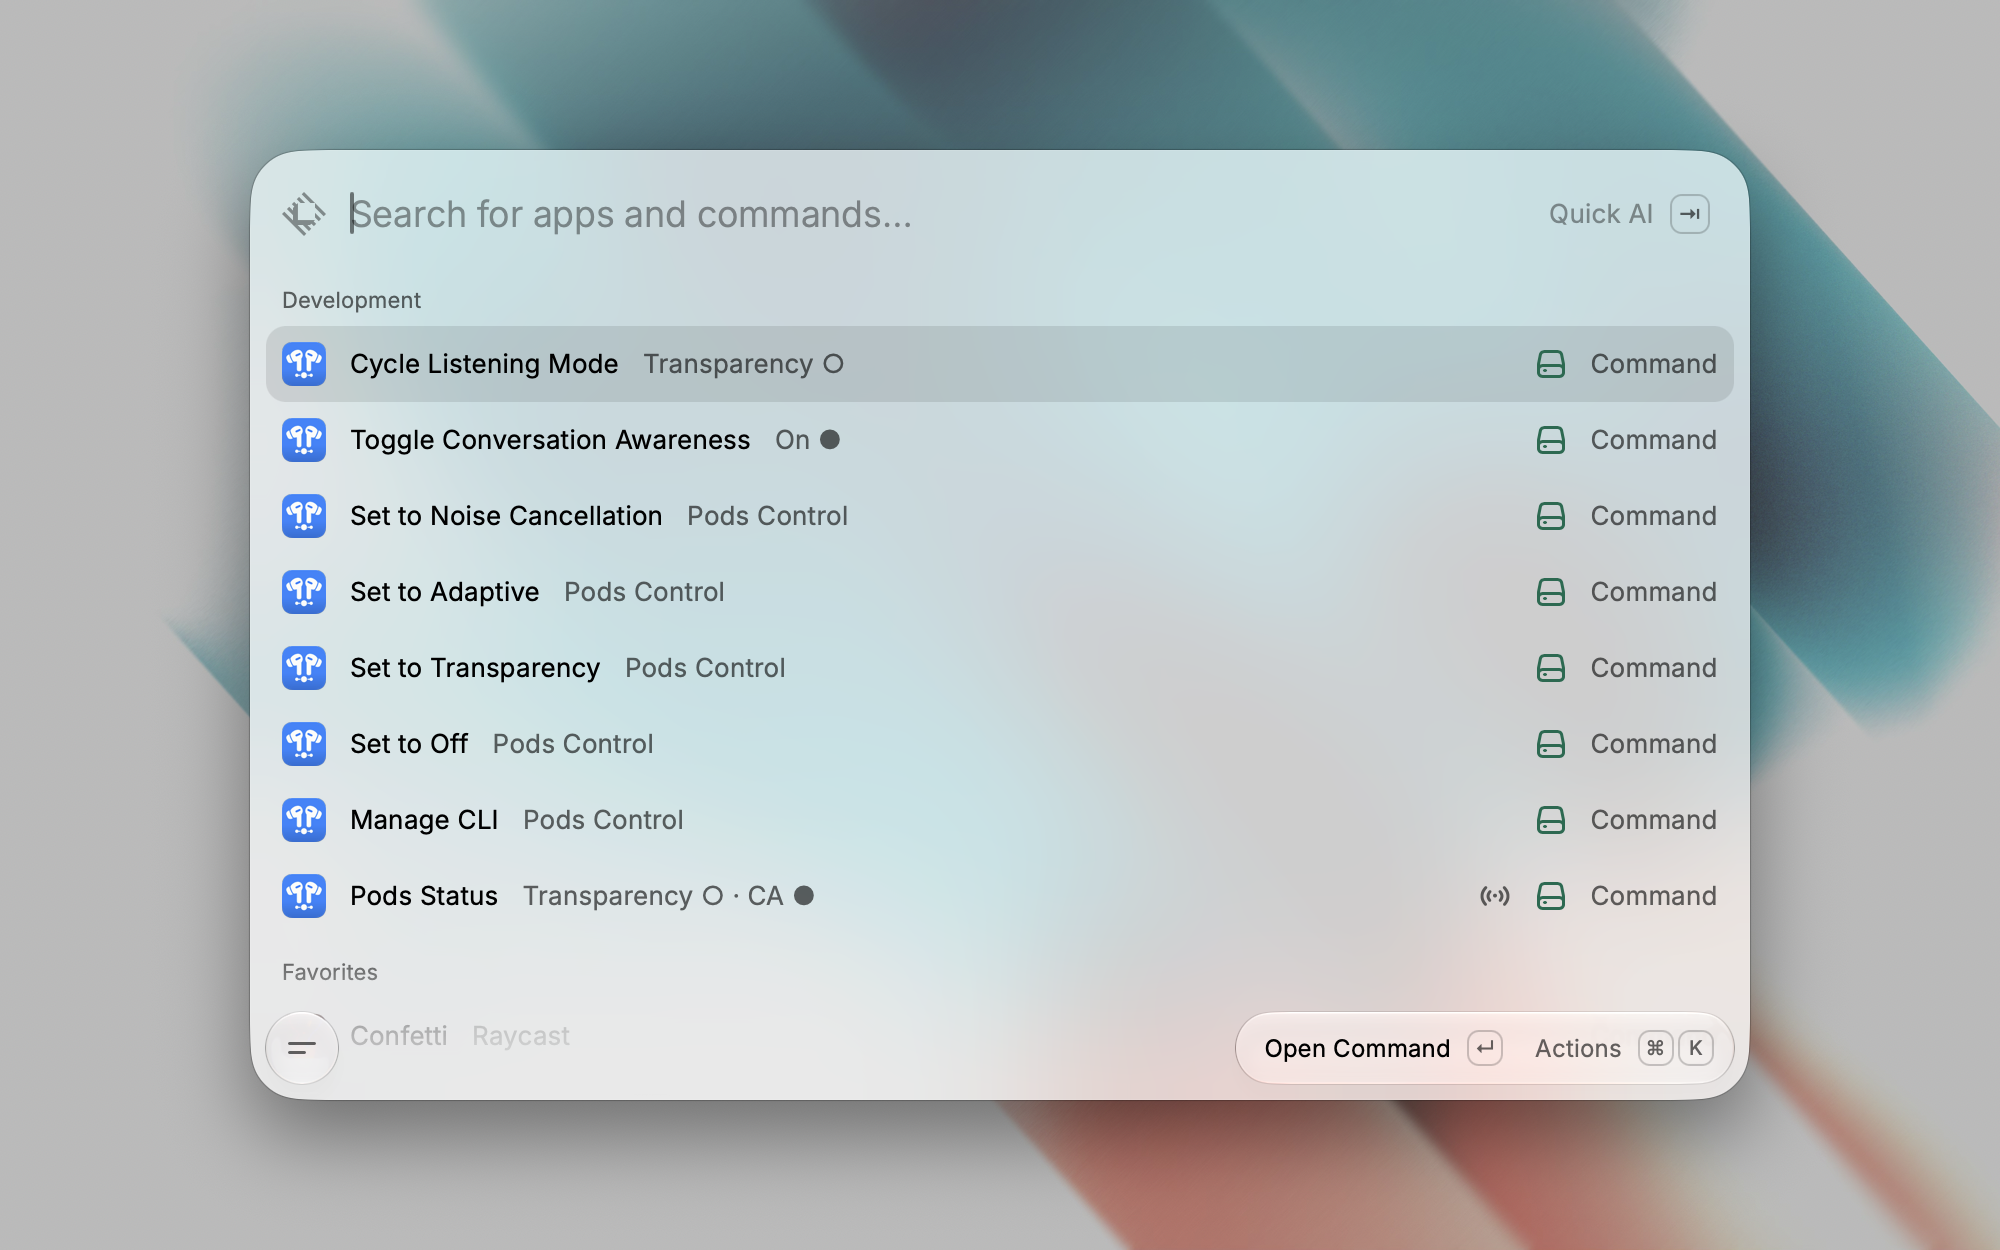
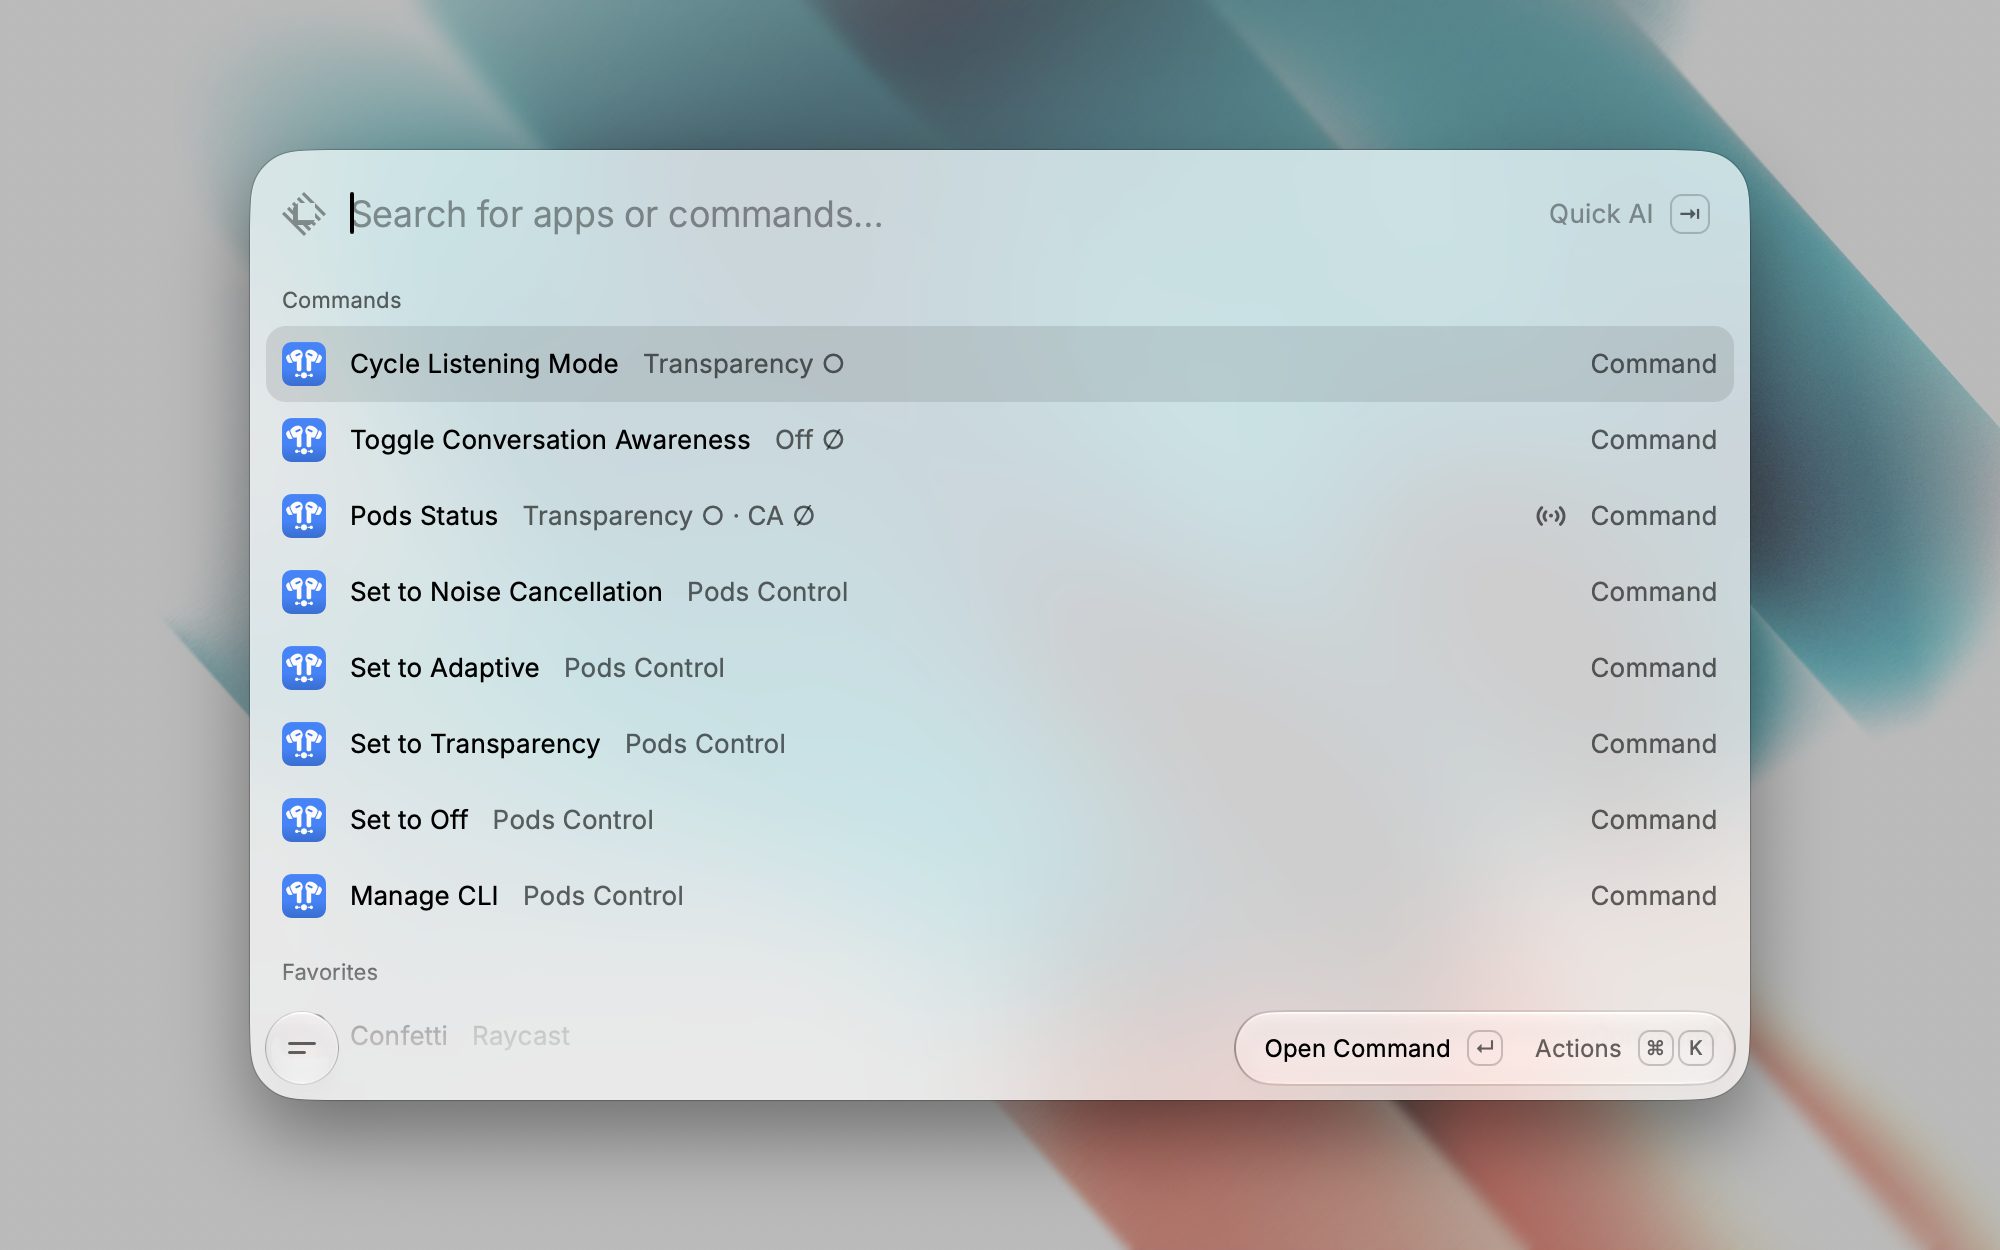
docs: rewrite README and refresh the store screenshot (#20)
## Summary

- Restructure the README for Store readers: Requirements, Get started
via Manage CLI, Commands, Preferences, Troubleshooting, Report a bug,
Privacy.
- Document Adaptive and Off as optional commands, which subtitles show
live state, and how Off availability works on the device.
- Refresh `metadata/pods-control-1.png` for the Store gallery.

## Testing

- README prose and link pass: Not run
- `scripts/check_metadata_images.py` on `metadata/pods-control-1.png`:
Not run
- `npm test` / `npm run lint`: Not run (docs and screenshot only)

diff --git a/README.md b/README.md
@@ -1,70 +1,86 @@
 # Pods Control
 
-Control AirPods and Beats listening modes (Off, Transparency, Adaptive, Noise Cancellation) and Conversation Awareness from Raycast, using a local CLI. Command subtitles show the current state as confirmed by macOS.
+Control AirPods and Beats listening modes (Off, Transparency, Adaptive, Noise Cancellation) and Conversation Awareness from Raycast.
 
-It runs on macOS only. Beats headphones that expose these controls in macOS may also work; see the CLI's [compatibility matrix](https://github.com/raulgg/pods-control/blob/HEAD/docs/compatibility.md) for tested models.
+## Requirements
 
-## Setup
+- macOS. The extension does not run on other platforms.
+- AirPods, or Beats headphones that expose these controls in macOS. See the [compatibility matrix](https://github.com/raulgg/pods-control/blob/HEAD/docs/compatibility.md) for tested models.
+- The [pods-control CLI](https://github.com/raulgg/pods-control), version 0.5.0 or later. The extension uses it to talk to your device.
 
-1. Install the CLI with [Homebrew](https://brew.sh). It builds from source, so this can take a few minutes. If Homebrew reports that Apple's Command Line Tools are missing, run `xcode-select --install` first.
+## Get started
 
-   ```bash
-   brew install raulgg/tap/pods-control
-   ```
-
-   You can also skip this step: run any Pods Control command and accept **Install with Homebrew** when prompted.
-
-2. Connect your AirPods or Beats and select them as your Mac's audio output.
-3. Run a Pods Control command.
-
-The extension needs CLI 0.5.0 or later and looks for it in `/opt/homebrew/bin` and `/usr/local/bin`. **Manage CLI** shows the installed version and offers **Update with Homebrew** when a newer release is available.
-
-**Installing without Homebrew.** Follow the CLI's [installation instructions](https://github.com/raulgg/pods-control/blob/HEAD/README.md#install) and keep the complete installation together, including `avbypass.dylib`. If the binary is outside the standard locations, set its full path in the **CLI Path** preference.
+1. Connect your AirPods or Beats to your Mac.
+2. Run **Manage CLI** and follow its steps to install the CLI. It checks for Homebrew and Apple's developer tools first.
+3. In Raycast's extension settings, turn on the optional commands and enable the desired listening modes to use in **Cycle Listening Mode**.
+4. Assign hotkeys to the commands you use most, for example **Cycle Listening Mode**.
 
 ## Commands
 
-| Command                           | What it does                                                                                                                                    |
-| --------------------------------- | ----------------------------------------------------------------------------------------------------------------------------------------------- |
-| **Set to Noise Cancellation**     | Switch to Noise Cancellation.                                                                                                                   |
-| **Set to Transparency**           | Switch to Transparency.                                                                                                                         |
-| **Set to Adaptive**               | Switch to Adaptive. Disabled by default; requires a model that supports it.                                                                     |
-| **Set to Off**                    | Turn noise control off. Disabled by default; requires Off to be enabled in your AirPods settings.                                               |
-| **Cycle Listening Mode**          | Step through the modes selected in its preferences. Unsupported modes are skipped.                                                              |
-| **Toggle Conversation Awareness** | Turn Conversation Awareness on or off. Requires a model that supports it.                                                                       |
-| **Pods Status**                   | Read the current mode and Conversation Awareness state. Run it once to activate Background Refresh, which keeps subtitles current every minute. |
-| **Manage CLI**                    | Install, update, or repair the pods-control CLI. Each screen explains the next step and offers the matching action.                             |
+| Command                           | What it does                                                                                    |
+| --------------------------------- | ----------------------------------------------------------------------------------------------- |
+| **Set to Noise Cancellation**     | Switch to Noise Cancellation.                                                                   |
+| **Set to Transparency**           | Switch to Transparency.                                                                         |
+| **Set to Adaptive**               | Switch to Adaptive. Disabled by default.                                                        |
+| **Set to Off**                    | Turn noise control off. Disabled by default.                                                    |
+| **Cycle Listening Mode**          | Step through the modes you select in its preferences. Skips modes your device does not support. |
+| **Toggle Conversation Awareness** | Turn Conversation Awareness on or off. Requires a model that supports it.                       |
+| **Pods Status**                   | Show the current mode and Conversation Awareness state.                                         |
+| **Manage CLI**                    | Install, update, or repair the CLI. Each screen explains the next step and offers the action.   |
 
-Control commands show a success toast while Raycast is open and a HUD when it is closed, for example when triggered by a hotkey. Subtitles update after macOS confirms the change; if no AirPods or Beats are connected, **Pods Status** shows **Not connected**.
+Control commands show a success toast while Raycast is open and a HUD when it is closed, for example when you use a hotkey.
+
+### Turn on Set to Adaptive and Set to Off
+
+Both commands are disabled by default because not every device supports them. If yours does, enable the command in Raycast's extension settings.
+
+- **Set to Adaptive** needs a model that supports Adaptive.
+- **Set to Off** needs Off to be enabled in your device settings. macOS lets you exclude Off from noise control.
+
+### See the current state at a glance
+
+**Cycle Listening Mode**, **Toggle Conversation Awareness**, and **Pods Status** show the current state, as confirmed by macOS, in their subtitles. Run **Pods Status** once to turn on Background Refresh, which updates these subtitles every minute. They also update after macOS confirms a change you make. The other commands keep the subtitle "Pods Control".
 
 ## Preferences
 
-| Preference                 | Command              | Description                                                                                                           |
-| -------------------------- | -------------------- | --------------------------------------------------------------------------------------------------------------------- |
-| **CLI Path**               | Extension            | Full path to the `pods-control` binary. Leave empty for automatic detection. A set path overrides detection.          |
-| **Modes to Cycle Through** | Cycle Listening Mode | Checkboxes for Off, Transparency, Adaptive, and Noise Cancellation. Select at least two. Off is unchecked by default. |
+| Preference                 | Command              | Description                                                                                                                         |
+| -------------------------- | -------------------- | ----------------------------------------------------------------------------------------------------------------------------------- |
+| **CLI Path**               | Extension            | Full path to the `pods-control` binary. Leave it empty to detect the CLI automatically. A set path overrides detection.             |
+| **Modes to Cycle Through** | Cycle Listening Mode | Checkboxes for Off, Transparency, Adaptive, and Noise Cancellation. Select at least two. Off and Adaptive are unchecked by default. |
 
 ## Troubleshooting
 
 ### "CLI not found" after installing
 
-Open **Manage CLI**. It detects unlinked or incomplete Homebrew installs and an invalid **CLI Path**, and gives you the exact command or preference to fix. After following the steps, choose **Refresh** in that view and run your command again.
+Open **Manage CLI**. It detects unlinked or incomplete Homebrew installs and an invalid **CLI Path**, and shows the command or preference that fixes each one. After you follow the steps, choose **Refresh** in that view and run your command again.
 
 ### "Not connected"
 
-Connect your AirPods or Beats and select them as the Mac's audio output. If several compatible devices are connected, disconnect the others; the extension does not choose between devices.
+**Pods Status** shows **Not connected** when no AirPods or Beats are connected. Connect your device to your Mac. If several compatible devices are connected, disconnect the others. The extension does not choose between devices.
 
 ### Adaptive or Conversation Awareness is unavailable
 
-Both depend on your model and firmware. Check the [compatibility matrix](https://github.com/raulgg/pods-control/blob/HEAD/docs/compatibility.md). **Set to Adaptive** is disabled by default; enable it in Raycast's extension settings if your model supports it.
+Both depend on your model and firmware. Check the [compatibility matrix](https://github.com/raulgg/pods-control/blob/HEAD/docs/compatibility.md). For Adaptive, turn on **Set to Adaptive**, include it in **Modes to Cycle Through**, or do both.
 
-### Off is unavailable
+### "Off mode was not applied"
 
-macOS lets you exclude Off from noise control. Enable it in your AirPods settings, or leave Off out of **Modes to Cycle Through**.
+macOS did not switch your device to Off. macOS lets you leave Off out of your device's noise control options, and Pods Control can only use Off when it is allowed there.
+
+1. Open your AirPods or Beats settings on your Mac and allow Off in the noise control options.
+2. Turn on **Set to Off** in Raycast's extension settings, check Off in **Modes to Cycle Through**, or do both.
+
+The CLI caches whether Off is allowed. See its [note on cached Off availability](https://github.com/raulgg/pods-control/blob/HEAD/docs/cli.md#cached-allow-off-availability).
+
+If you don't want to use Off, uncheck it in **Modes to Cycle Through** and disable **Set to Off**.
 
 ### Commands stopped working after a macOS update
 
-Check the compatibility matrix and update the CLI from **Manage CLI** or with `brew upgrade raulgg/tap/pods-control`. A successful install does not by itself mean your device is supported.
+Check the compatibility matrix. Then update the CLI from **Manage CLI** or with `brew upgrade raulgg/tap/pods-control`. A successful install does not confirm that your device is supported.
+
+## Report a bug
+
+Open an issue in the [extension repository](https://github.com/raulgg/raycast-extension-pods-control/issues). If you know the problem is in the CLI or with your device, report it in the [pods-control CLI repository](https://github.com/raulgg/pods-control/issues) instead. When a command fails, choose **Copy Error** on its toast and paste the message into your report.
 
 ## Privacy and security
 
-The extension only runs the CLI locally and collects no analytics. The CLI uses private macOS audio interfaces together with a companion library that adjusts an entitlement check inside its own process; it does not need Accessibility permission or elevated privileges, but Apple can change these interfaces in any macOS update. Read the CLI's [security and trust model](https://github.com/raulgg/pods-control/blob/HEAD/SECURITY.md) before installing. The CLI keeps a small local cache, described in its [reference](https://github.com/raulgg/pods-control/blob/HEAD/docs/cli.md#cached-allow-off-availability).
+The extension only runs the CLI on your Mac and collects no analytics. The CLI uses private macOS audio interfaces and a companion library that adjusts an entitlement check inside its own process. It does not need Accessibility permission or elevated privileges. Apple can change these interfaces in any macOS update. Read the CLI's [security and trust model](https://github.com/raulgg/pods-control/blob/HEAD/SECURITY.md) before you install it. The CLI keeps a small local cache, described in its [reference](https://github.com/raulgg/pods-control/blob/HEAD/docs/cli.md#cached-allow-off-availability).
